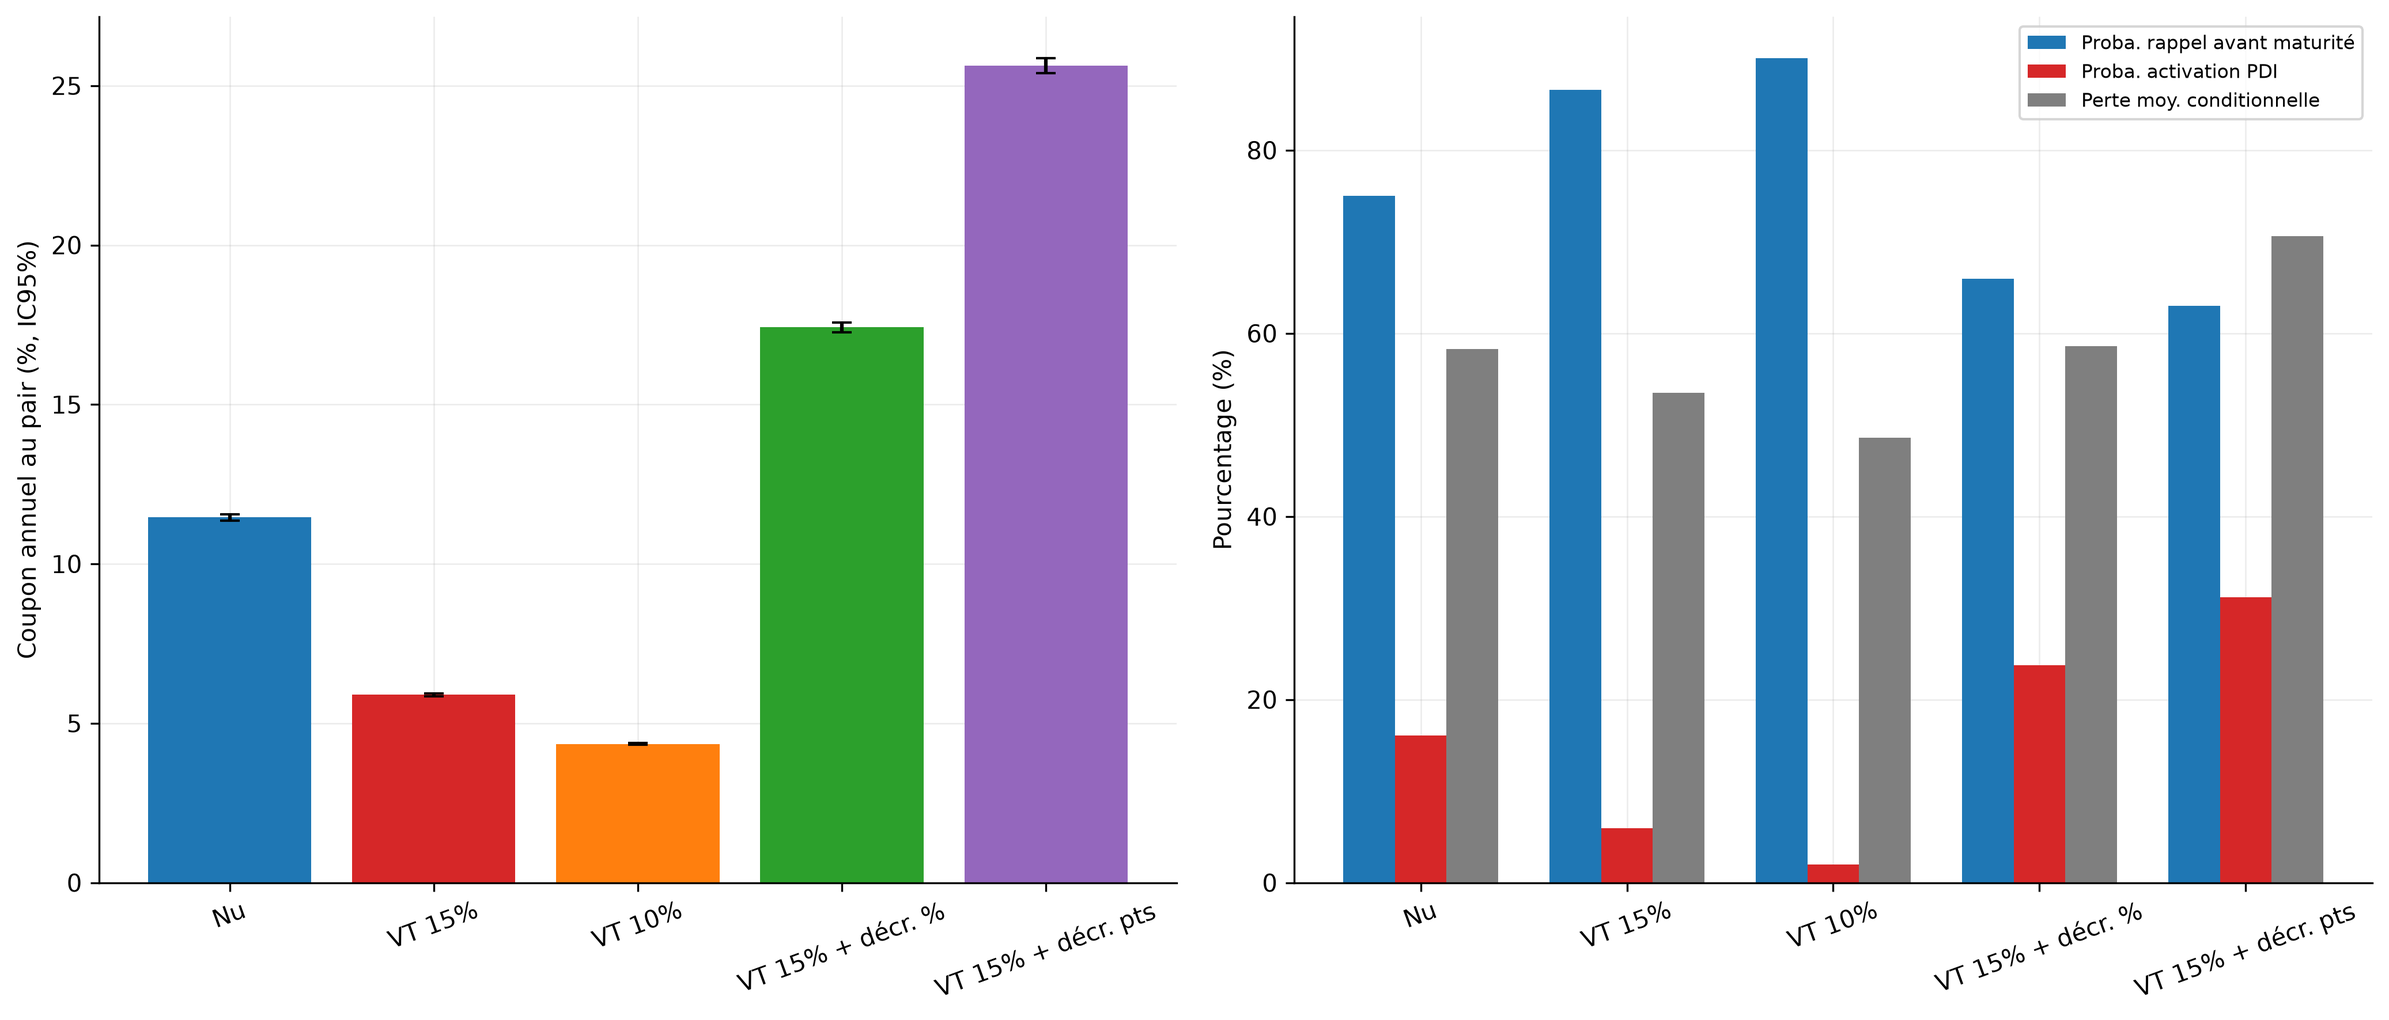
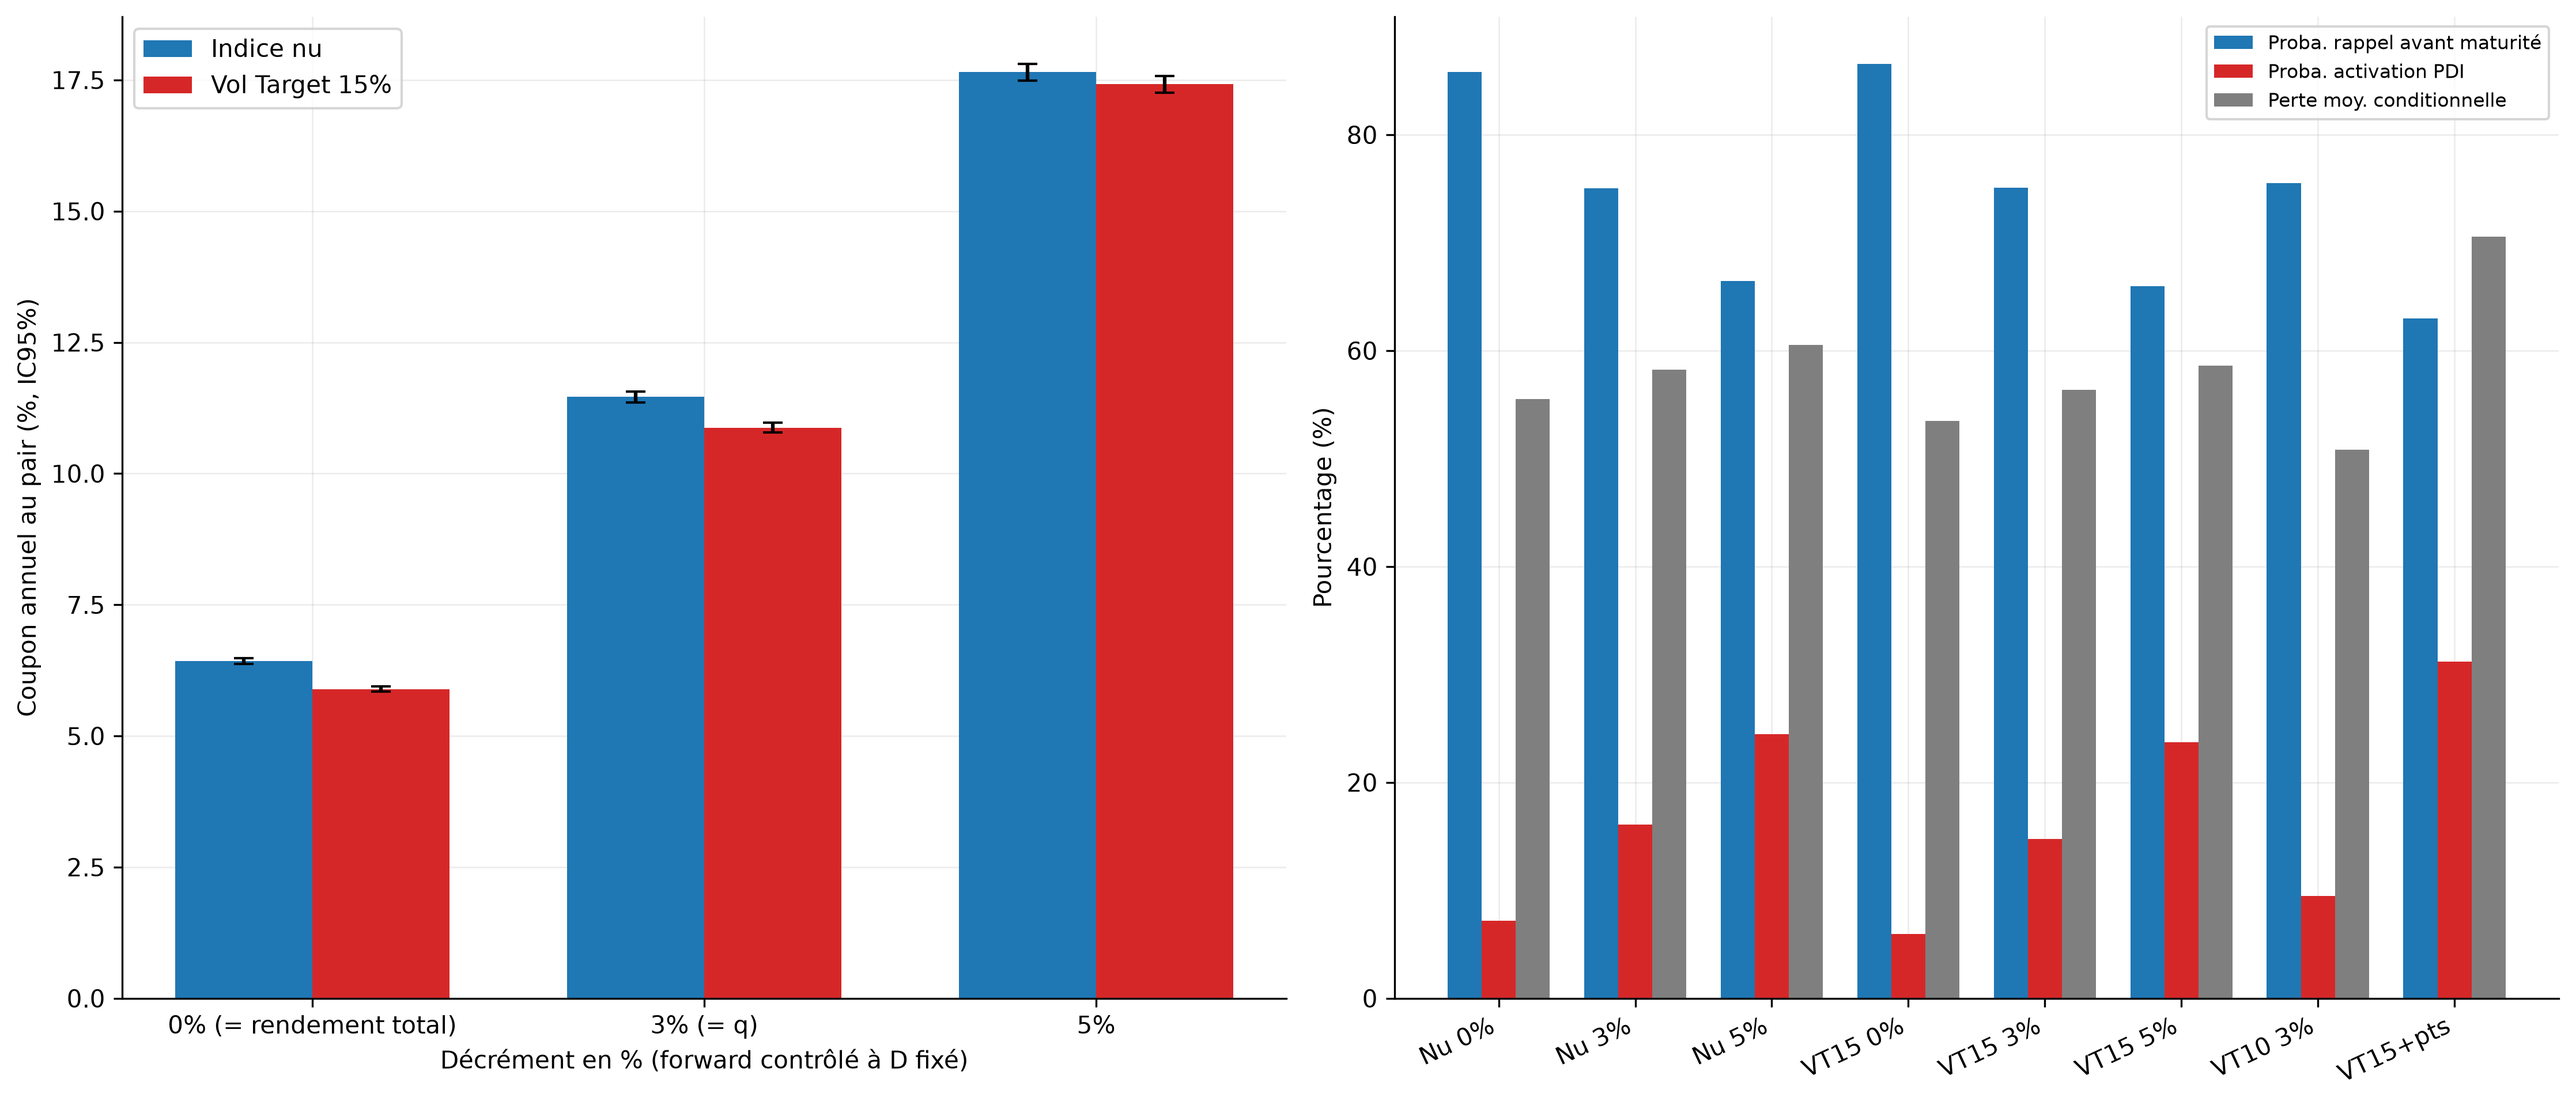
Régénère la Figure E (200 000 trajectoires) avec la grille corrigée
Nouvelles sorties numériques et figure pour les 8 configurations de la
grille 2x3 à forward contrôlé + Vol Target 10% et décrément en points.

Claude-Session: https://claude.ai/code/session_015eQVDicu4ABDg8MAAznT6W

diff --git a/figures/figureE_resultats.md b/figures/figureE_resultats.md
@@ -1,7 +1,10 @@
-| configuration | coupon_pair_pct | coupon_ic95_demi_largeur_pct | vol_realisee_moyenne_pct | proba_rappel_avant_maturite_pct | proba_pdi_actif_pct | perte_moyenne_cond_pct | forward_mc_10y | prix_verif_pct | erreur_std_mc_pct | proba_indice_negatif_pct |
-|---|---|---|---|---|---|---|---|---|---|---|
-| Indice nu (price return) | 11.459 | 0.103 | 17.714 | 75.034 | 16.070 | 58.260 | 95.269 | 100.000 | 0.076 | 0.000 |
-| Vol Target 15% | 5.891 | 0.048 | 16.173 | 86.588 | 5.936 | 53.498 | 128.491 | 100.000 | 0.041 | 0.000 |
-| Vol Target 10% | 4.351 | 0.029 | 11.863 | 90.061 | 2.000 | 48.583 | 128.459 | 100.000 | 0.025 | 0.000 |
-| Vol Target 15% + décrément 5%/an | 17.419 | 0.158 | 16.173 | 65.960 | 23.728 | 58.601 | 77.934 | 100.000 | 0.100 | 0.000 |
-| Vol Target 15% + décrément points (K=5) | 25.625 | 0.239 | 16.181 | 63.006 | 31.179 | 70.641 | 71.638 | 100.000 | 0.134 | 0.860 |
+| configuration | coupon_pair_pct | coupon_ic95_demi_largeur_pct | vol_realisee_moyenne_pct | proba_rappel_avant_maturite_pct | proba_pdi_actif_pct | perte_moyenne_cond_pct | forward_theorique_10y | forward_mc_10y | prix_verif_pct | erreur_std_mc_pct | proba_indice_nul_pct |
+|---|---|---|---|---|---|---|---|---|---|---|---|
+| Indice nu, décrément 0% (= rendement total) | 6.424 | 0.055 | 17.714 | 85.838 | 7.186 | 55.540 | 128.403 | 128.600 | 100.000 | 0.046 | 0.000 |
+| Indice nu, décrément 3% (= Price Return q=3%) | 11.459 | 0.103 | 17.714 | 75.034 | 16.070 | 58.260 | 95.123 | 95.269 | 100.000 | 0.076 | 0.000 |
+| Indice nu, décrément 5% | 17.649 | 0.161 | 17.714 | 66.435 | 24.450 | 60.551 | 77.880 | 78.000 | 100.000 | 0.103 | 0.000 |
+| Vol Target 15%, décrément 0% (= rendement total) | 5.891 | 0.048 | 16.173 | 86.588 | 5.936 | 53.498 | 128.403 | 128.491 | 100.000 | 0.041 | 0.000 |
+| Vol Target 15%, décrément 3% | 10.874 | 0.096 | 16.173 | 75.102 | 14.746 | 56.367 | 95.123 | 95.189 | 100.000 | 0.071 | 0.000 |
+| Vol Target 15%, décrément 5% | 17.419 | 0.158 | 16.173 | 65.960 | 23.728 | 58.601 | 77.880 | 77.934 | 100.000 | 0.100 | 0.000 |
+| Vol Target 10%, décrément 3% | 8.895 | 0.075 | 11.863 | 75.522 | 9.496 | 50.838 | 95.123 | 95.165 | 100.000 | 0.056 | 0.000 |
+| Vol Target 15% + décrément points (K=5, plancher 0) | 25.603 | 0.238 | 16.181 | 63.006 | 31.179 | 70.545 | 71.600 | 71.670 | 100.000 | 0.134 | 0.860 |
